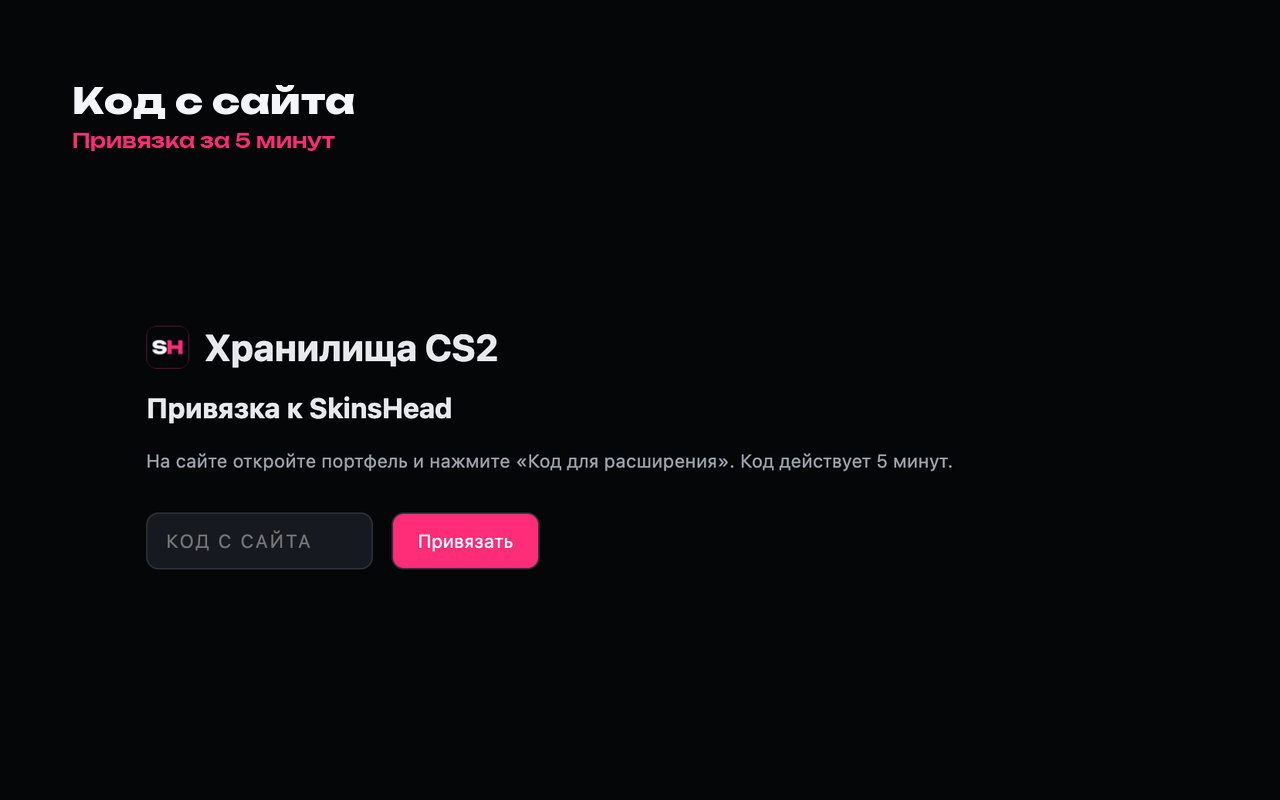
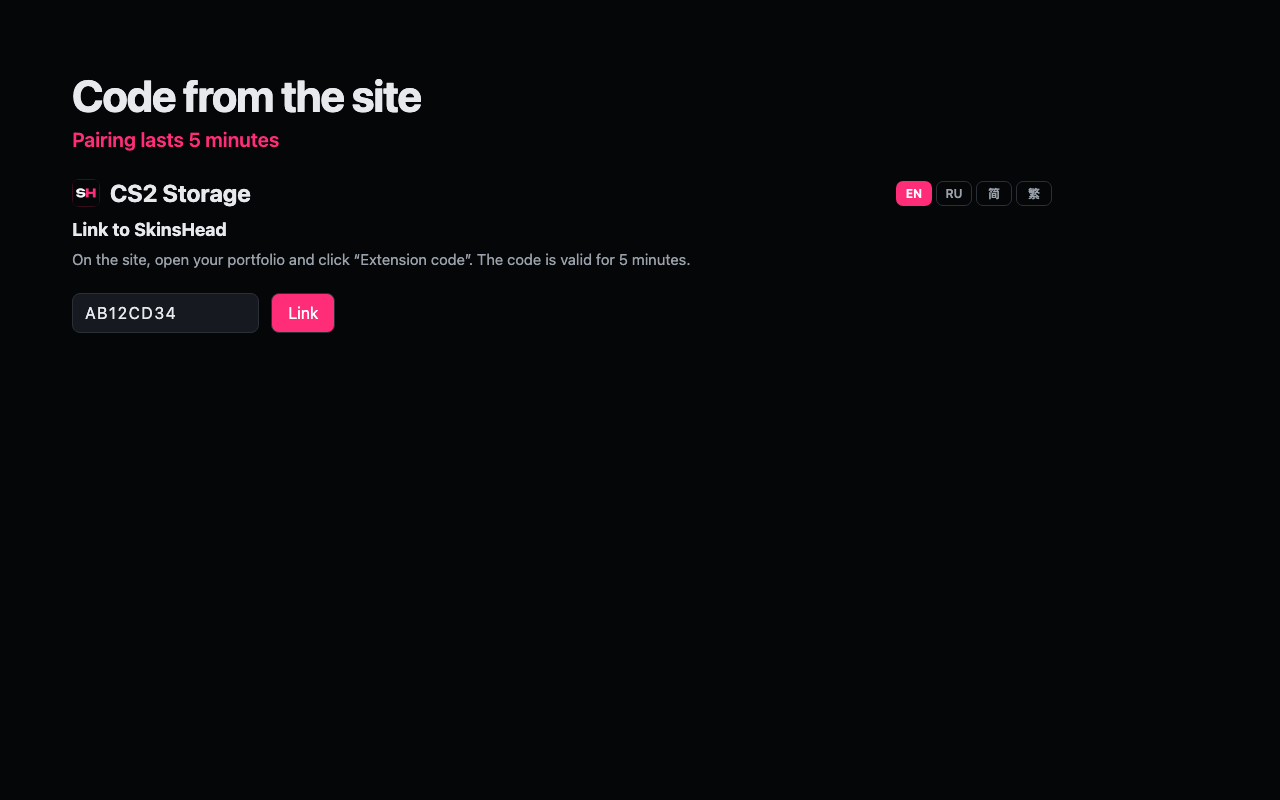
Update Chrome Web Store listing assets and drop the dashboard refresh button.

diff --git a/chrome-web-store/screenshots.html b/chrome-web-store/screenshots.html
@@ -1,0 +1,101 @@
+<!doctype html>
+<html lang="en">
+<head>
+  <meta charset="utf-8">
+  <title>Store screenshots</title>
+  <link rel="stylesheet" href="../extension/sync.css">
+  <style>
+    html, body { margin: 0; background: #050608; }
+    .shot {
+      width: 1280px;
+      height: 800px;
+      box-sizing: border-box;
+      padding: 72px 72px 0;
+      overflow: hidden;
+    }
+    .hero {
+      margin: 0;
+      font-size: 44px;
+      font-weight: 700;
+      letter-spacing: -0.03em;
+      line-height: 1.05;
+    }
+    .sub {
+      margin: 10px 0 28px;
+      color: #ff2d78;
+      font-size: 20px;
+      font-weight: 600;
+    }
+    .shot main {
+      max-width: 980px;
+      margin: 0;
+      padding: 0;
+    }
+    .shot h2 { margin: 0 0 8px; }
+    .shot .note { margin: 0; font-size: 15px; max-width: 980px; }
+    .shot .actions { margin: 22px 0 0; }
+    .shot table { margin-top: 8px; max-width: 720px; }
+    .shot #pair-code { color: #e7e9ec; }
+  </style>
+</head>
+<body>
+  <section class="shot" id="shot-1">
+    <h1 class="hero">Code from the site</h1>
+    <p class="sub">Pairing lasts 5 minutes</p>
+    <main>
+      <div class="top">
+        <h1><img src="../extension/icons/48.png" width="28" height="28" alt="">CS2 Storage</h1>
+        <div class="lang-switch"><button type="button" aria-pressed="true">EN</button><button type="button">RU</button><button type="button">简</button><button type="button">繁</button></div>
+      </div>
+      <h2>Link to SkinsHead</h2>
+      <p class="note">On the site, open your portfolio and click “Extension code”. The code is valid for 5 minutes.</p>
+      <form class="actions">
+        <input id="pair-code" value="AB12CD34" readonly>
+        <button type="button">Link</button>
+      </form>
+    </main>
+  </section>
+  <section class="shot" id="shot-2">
+    <h1 class="hero">QR sign-in</h1>
+    <p class="sub">The token is never saved</p>
+    <main>
+      <div class="top">
+        <h1><img src="../extension/icons/48.png" width="28" height="28" alt="">CS2 Storage</h1>
+        <div class="lang-switch"><button type="button" aria-pressed="true">EN</button><button type="button">RU</button><button type="button">简</button><button type="button">繁</button></div>
+      </div>
+      <p class="note">Steam account 76561198000000000 is linked. <button type="button" class="link">Disconnect</button></p>
+      <p class="note">Signing in with a QR code gives this tab a Steam token. It stays only in memory while the reading runs, is never saved, and is never sent to SkinsHead — only the item list is. The token is revoked at Steam after reading. If you close the tab mid-reading, it is not revoked: remove the device “SkinsHead Browser Extension” in Steam → Settings → Security → Authorized devices.</p>
+      <div class="actions"><button type="button">Sign in with QR and sync</button></div>
+    </main>
+  </section>
+  <section class="shot" id="shot-3">
+    <h1 class="hero">In the portfolio</h1>
+    <p class="sub">Items and storage units</p>
+    <main>
+      <div class="top">
+        <h1><img src="../extension/icons/48.png" width="28" height="28" alt="">CS2 Storage</h1>
+        <div class="lang-switch"><button type="button" aria-pressed="true">EN</button><button type="button">RU</button><button type="button">简</button><button type="button">繁</button></div>
+      </div>
+      <h2>Sent to the portfolio: 2140 items</h2>
+      <p class="note">Storage units: 3, items inside: 2100.</p>
+      <table>
+        <thead><tr><th>Storage unit</th><th>Expected</th><th>Read</th></tr></thead>
+        <tbody>
+          <tr><td>Cases</td><td>1200</td><td>1200</td></tr>
+          <tr><td>Knives</td><td>40</td><td>40</td></tr>
+          <tr><td>Stickers</td><td>860</td><td>860</td></tr>
+        </tbody>
+      </table>
+      <p><a>Open portfolio</a></p>
+    </main>
+  </section>
+  <script>
+    const n = new URLSearchParams(location.search).get('n');
+    if (n) {
+      document.querySelectorAll('.shot').forEach((el) => {
+        if (el.id !== `shot-${n}`) el.remove();
+      });
+    }
+  </script>
+</body>
+</html>

diff --git a/dashboard.jsx b/dashboard.jsx
@@ -997,13 +997,6 @@ function Dashboard({ lang, onItemClick, onCollectionClick, auth, publicProfileUr
               label={tt(lang, { en: 'Share on X', ru: 'В X', zh: '分享到 X', 'zh-TW': '分享到 X' })}
               title={tt(lang, { en: 'Share this portfolio on X', ru: 'Поделиться портфелем в X', zh: '分享到 X', 'zh-TW': '分享到 X' })}
             />
-            <button
-              className="btn btn-sm btn-ghost"
-              onClick={() => portfolio.reload(isSteamPortfolio || isPublicPortfolio)}
-              title={tt(lang, { en: 'Refresh portfolio data', ru: 'Обновить данные портфеля', zh: '刷新库存数据', 'zh-TW': '重新整理庫存資料' })}
-            >
-              {portfolio.loading ? '...' : (tt(lang, { en: 'Refresh', ru: 'Обновить', zh: '刷新', 'zh-TW': '重新整理' }))}
-            </button>
           </div>
         </div>
         {favoriteError && (

diff --git a/scripts/pack-cws.js b/scripts/pack-cws.js
@@ -1,0 +1,16 @@
+const fs = require('fs');
+const path = require('path');
+const { getStoreZip } = require('../server/services/extension-zip');
+
+async function main() {
+  const zip = await getStoreZip();
+  const outDir = path.join(__dirname, '..', 'chrome-web-store');
+  const out = path.join(outDir, zip.fileName);
+  fs.writeFileSync(out, zip.buffer);
+  console.log(`${out} ${zip.buffer.length} bytes v${zip.version}`);
+}
+
+main().catch((err) => {
+  console.error(err);
+  process.exit(1);
+});

diff --git a/chrome-web-store/LISTING.md b/chrome-web-store/LISTING.md
@@ -25,6 +25,7 @@ How it works:
 
 Security:
 - Your Steam password is never requested.
+- The link to your portfolio is encrypted on this computer with a password you choose. That password is never saved and never sent to SkinsHead.
 - The Steam token lives only in the tab’s memory during the reading. It is never saved and is revoked at Steam as soon as the reading finishes.
 - Only the item list is sent to skinshead.pro. The extension cannot move, sell or trade items.
 - If you close the tab mid-reading, the token is not revoked. Remove the device “SkinsHead Browser Extension” in Steam → Settings → Security → Authorized devices.
@@ -51,6 +52,7 @@ SkinsHead читает содержимое хранилищ CS2 и добавл
 
 Безопасность:
 - Пароль Steam не запрашивается.
+- Привязка к портфелю шифруется на этом компьютере паролем, который выбирает пользователь. Этот пароль не сохраняется и не отправляется в SkinsHead.
 - Токен Steam живёт только в памяти вкладки, пока идёт чтение. Он не сохраняется и отзывается в Steam сразу после чтения.
 - На skinshead.pro уходит только список предметов. Расширение не перемещает, не продаёт и не обменивает предметы.
 - Если закрыть вкладку посреди чтения, отзыв не произойдёт. Удалите устройство «SkinsHead Browser Extension» в Steam → Настройки → Безопасность → Авторизованные устройства.
@@ -95,7 +97,9 @@ The user’s own portfolio service. The extension sends the item list there and 
 
 ## Файлы
 
-- Архив для загрузки: скачать с https://skinshead.pro/api/downloads/extension после выкладки этой версии. В нём нет localhost.
+- Архив для магазина: `chrome-web-store/skinshead-extension-0.1.0.zip`. `manifest.json` в корне архива, localhost вырезан. Собрать заново: `node scripts/pack-cws.js`.
+- Архив с сайта (`/api/downloads/extension`) для магазина не подходит: внутри папка `skinshead-extension/`, её выбирают при «Загрузить распакованное».
 - Иконка 128: chrome-web-store/icon-128.png (та же, что в расширении).
-- Плитка 440×280: chrome-web-store/promo-440x280.png
-- Скриншоты 1280×800: chrome-web-store/screenshot-1.png, screenshot-2.png, screenshot-3.png
+- Плитка 440×280: chrome-web-store/promo-440x280.png (без альфа-канала).
+- Скриншоты 1280×800, английский (язык по умолчанию): screenshot-1.png, screenshot-2.png, screenshot-3.png.
+- Те же кадры по-русски, для языка Russian: screenshot-ru-1.png, screenshot-ru-2.png, screenshot-ru-3.png.
